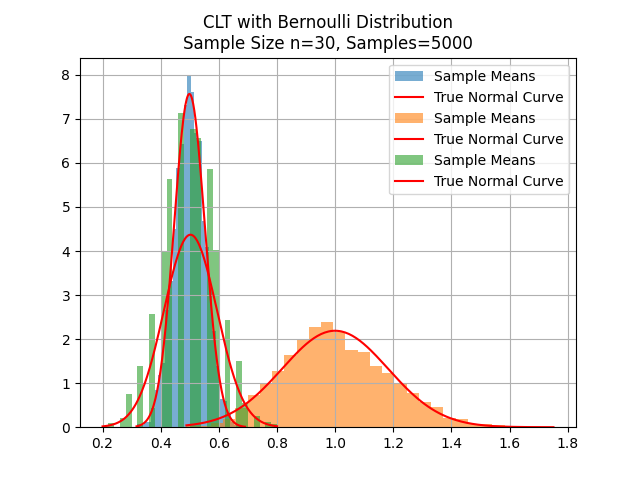
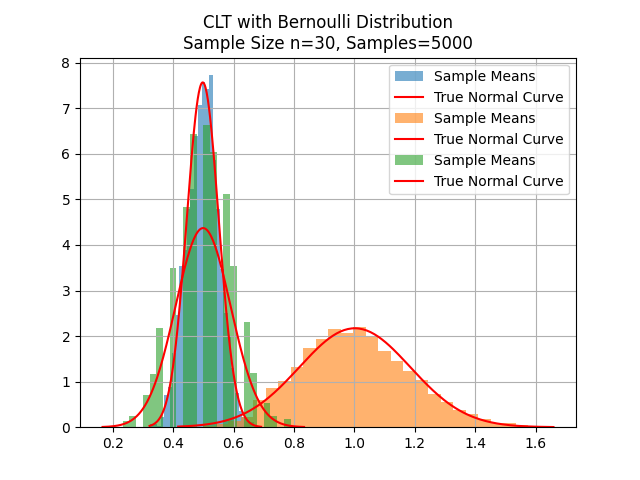
static visualizer modified

diff --git a/projects/stats-visualizer/src/stats_visualizer/convergence.py b/projects/stats-visualizer/src/stats_visualizer/convergence.py
@@ -2,7 +2,7 @@ import matplotlib.pyplot as plt
 import numpy as np
 from scipy.stats import t, norm
 
-def plot_t_convergence(df_values=[1, 3, 10, 30]):
+def plot_t_convergence(df_values=[1, 3, 10, 30], output_path="t_convergence.png"):
     x = np.linspace(-4, 4, 400)
     normal_pdf = norm.pdf(x)
 
@@ -23,9 +23,12 @@ def plot_t_convergence(df_values=[1, 3, 10, 30]):
     plt.legend()
     plt.tight_layout()
 
+    # ✅ Save inside function
+    plt.savefig(output_path)
+    return output_path
+
 
 if __name__ == "__main__":
-    plot_t_convergence()
+    output = plot_t_convergence()
+    print(f"Plot saved → {output}")
     plt.show()
-    plt.savefig("t_convergence.png")  # ✅ Save to file
-    print("Plot saved → t_convergence.png")

diff --git a/projects/stats-visualizer/tests/test_convergence.py b/projects/stats-visualizer/tests/test_convergence.py
@@ -1,13 +1,9 @@
-from stats_visualizer.convergence import plot_t_to_normal_convergence
+from stats_visualizer.convergence import plot_t_convergence
 import os
 
 
 def test_convergence_runs():
-    """Verify plotting executes and saves output."""
-    output_path = "test_plot.png"
-    result = plot_t_to_normal_convergence(save_path=output_path)
+    expected_file = "test_plot.png"
+    result = plot_t_convergence(output_path=expected_file)
+    assert result == expected_file
 
-    assert result == output_path
-    assert os.path.exists(output_path)
-
-    os.remove(output_path)
